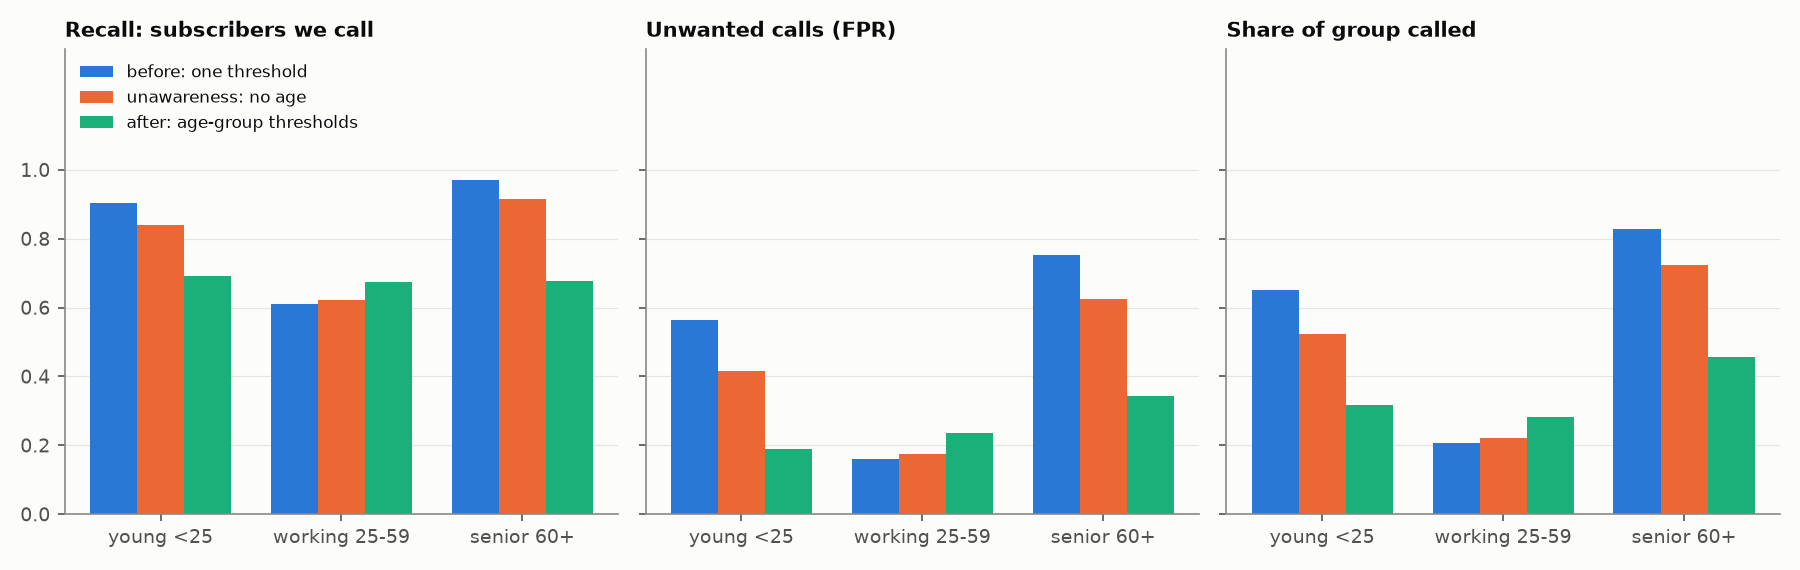
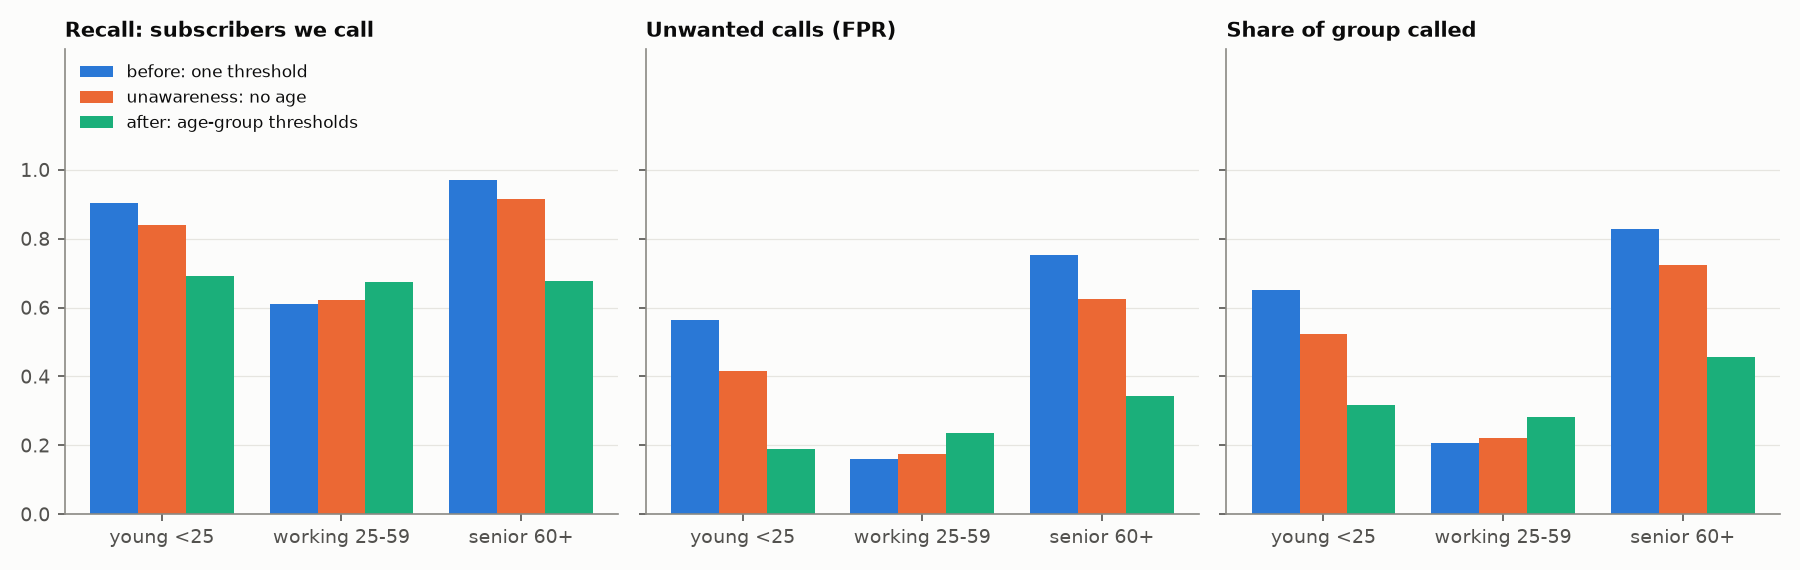
Fit final model and evaluate once on the untouched test set

diff --git a/src/final.py b/src/final.py
@@ -1,0 +1,120 @@
+"""Final step - fit the chosen model on all training data and score the untouched test set ONCE.
+
+Every decision is frozen before this script runs, all of it chosen on cross-validation:
+- model and hyperparameters: tuned LightGBM (step 6, reports/tables/best_params.json);
+- no recalibration (step 9: the raw probabilities are already honest);
+- decision threshold: the profit-optimal one from out-of-fold scores (step 6, 0.11);
+- fairness mitigation: one threshold per age group (step 10, reports/tables/fairness_thresholds.json).
+Nothing here is tuned on the test set; the test numbers only report how well those choices hold.
+
+Outputs: the fitted model for the API (artifacts/models/final_model.joblib, also logged to MLflow),
+test metrics, a test reliability diagram and the fairness comparison before/after mitigation.
+
+Run: python -m src.final
+"""
+import json
+
+import joblib
+import matplotlib.pyplot as plt
+import mlflow
+import numpy as np
+import pandas as pd
+from sklearn.calibration import calibration_curve
+from sklearn.metrics import brier_score_loss
+
+from src.config import path
+from src.data import load_split
+from src.evaluation import expected_calibration_error, profit, summarize
+from src.fairness import GROUPS, age_group, gaps, group_report, plot_groups
+from src.models import build_pipeline
+from src.plots import GREY, SERIES, save
+from src.tracking import parent_run
+
+
+def main() -> None:
+    X_train, X_test, y_train, y_test = load_split()
+    params = json.loads((path("tables") / "best_params.json").read_text())["lightgbm"]
+    tuned = pd.read_csv(path("tables") / "tuning_results.csv")
+    threshold = float(tuned.query("model == 'lightgbm' and setting == 'tuned'")["threshold"].iloc[0])
+    group_thresholds = json.loads((path("tables") / "fairness_thresholds.json").read_text())["thresholds"]
+
+    # Refit on the full 80% (S5: choose with CV, then refit on all development data).
+    model = build_pipeline("lightgbm", **params).fit(X_train, y_train)
+    bundle = {"model": model, "threshold": threshold, "group_thresholds": group_thresholds,
+              "columns": list(X_train.columns)}
+    model_file = path("models") / "final_model.joblib"
+    joblib.dump(bundle, model_file)
+
+    scores = model.predict_proba(X_test)[:, 1]
+    groups = age_group(X_test["age"])
+    cv = tuned.query("model == 'lightgbm' and setting == 'tuned'").iloc[0]
+
+    # Headline metrics: test next to the cross-validation estimate, plus the no-model baseline.
+    test = {**summarize(y_test, scores, threshold), "brier": brier_score_loss(y_test, scores),
+            "ECE": expected_calibration_error(y_test, scores)}
+    everyone = np.ones(len(y_test), dtype=bool)
+    metrics = pd.DataFrame({
+        "cross-validation (train)": {k: cv[k] for k in ["AP", "ROC_AUC", "threshold", "precision",
+                                                        "recall", "share_called", "profit_per_1000"]},
+        "test (final model)": test,
+        "test: call everyone": {"AP": y_test.mean(), "ROC_AUC": 0.5, "threshold": 0.0,
+                                "precision": y_test.mean(), "recall": 1.0, "share_called": 1.0,
+                                "profit_per_1000": profit(y_test, everyone) * 1000 / len(y_test)},
+    })
+
+    # Fairness on the test set: the same frozen model, one threshold vs age-group thresholds.
+    settings = {"before: one threshold": {g: threshold for g in GROUPS},
+                "after: age-group thresholds": group_thresholds}
+    reports, summary = [], []
+    for name, thresholds in settings.items():
+        report = group_report(y_test, scores, groups, thresholds).assign(setting=name)
+        call = scores >= np.array([thresholds[g] for g in groups])
+        summary.append({"setting": name, "profit_per_1000": profit(y_test, call) * 1000 / len(y_test),
+                        **gaps(report)})
+        reports.append(report)
+    fairness = pd.concat(reports, ignore_index=True)
+    fairness_summary = pd.DataFrame(summary)
+
+    metrics_file = path("tables") / "final_test_metrics.csv"
+    fairness_file = path("tables") / "final_test_fairness.csv"
+    fairness_summary_file = path("tables") / "final_test_fairness_summary.csv"
+    metrics.to_csv(metrics_file, index_label="metric")
+    fairness.to_csv(fairness_file, index=False)
+    fairness_summary.to_csv(fairness_summary_file, index=False)
+
+    fig, ax = plt.subplots(figsize=(5.5, 5))
+    ax.plot([0, 1], [0, 1], color=GREY, linestyle="--", linewidth=1, label="perfect calibration")
+    observed, predicted = calibration_curve(y_test, scores, n_bins=10, strategy="uniform")
+    ax.plot(predicted, observed, "o-", color=SERIES[0], linewidth=2, markersize=6,
+            label=f"final model (Brier {test['brier']:.3f}, ECE {test['ECE']:.3f})")
+    ax.set(xlabel="Predicted probability", ylabel="Observed subscription rate", xlim=(0, 1), ylim=(0, 1))
+    ax.set_title("Reliability on the untouched test set", loc="left")
+    ax.legend(loc="upper left")
+    save(fig, "final_test_reliability")
+    plot_groups(fairness, "final_test_fairness")
+
+    figures = [path("figures") / f"{f}.png" for f in ["final_test_reliability", "final_test_fairness"]]
+    with parent_run("final_test", [metrics_file, fairness_file, fairness_summary_file, *figures]):
+        mlflow.log_params({"model": "lightgbm", "threshold": threshold,
+                           **{f"param_{k}": v for k, v in params.items()}})
+        mlflow.log_metrics({f"test_{k}": float(v) for k, v in test.items()})
+        # MLflow saves models with skops, which only loads types we explicitly trust:
+        # LightGBM, the column selector and our own feature functions.
+        mlflow.sklearn.log_model(model, name="final_model", skops_trusted_types=[
+            "collections.OrderedDict", "numpy.dtype", "lightgbm.basic.Booster",
+            "lightgbm.sklearn.LGBMClassifier", "sklearn.compose._column_transformer.make_column_selector",
+            "src.features.add_features", "src.features.contacted_before",
+            "src.features.life_stage", "src.features.log_skewed"])
+
+    print(metrics.round(4).to_string())
+    print()
+    cols = ["setting", "group", "threshold", "clients", "subscribers", "call_rate", "recall",
+            "recall_ci_low", "recall_ci_high", "false_positive_rate", "precision", "ECE"]
+    print(fairness[cols].round(3).to_string(index=False))
+    print()
+    print(fairness_summary.round(3).to_string(index=False))
+    print(f"\nModel saved to {model_file}")
+
+
+if __name__ == "__main__":
+    main()

diff --git a/src/fairness.py b/src/fairness.py
@@ -35,6 +35,8 @@ from src.plots import SERIES, save
 from src.tracking import log_candidate, parent_run
 
 GROUPS = ["young <25", "working 25-59", "senior 60+"]
+# Same colour for the same setting in every figure (CV and test).
+SETTING_COLORS = {"before": SERIES[0], "unawareness": SERIES[1], "after": SERIES[2]}
 
 
 def age_group(age: pd.Series) -> np.ndarray:
@@ -88,6 +90,29 @@ def equal_opportunity_thresholds(y: pd.Series, scores: np.ndarray, groups: np.nd
     return chosen
 
 
+def plot_groups(table: pd.DataFrame, name: str) -> None:
+    """Recall, unwanted calls and call rate per age group, one bar colour per setting."""
+    settings = list(table["setting"].unique())
+    width = 0.8 / len(settings)
+    fig, axes = plt.subplots(1, 3, figsize=(12, 3.8), sharey=True)
+    metrics = [("recall", "Recall: subscribers we call"),
+               ("false_positive_rate", "Unwanted calls (FPR)"), ("call_rate", "Share of group called")]
+    for ax, (col, title) in zip(axes, metrics):
+        for k, setting in enumerate(settings):
+            values = table.loc[table["setting"] == setting, col]
+            offset = (k - (len(settings) - 1) / 2) * width
+            ax.bar(np.arange(len(GROUPS)) + offset, values, width,
+                   color=SETTING_COLORS[setting.split(":")[0]], label=setting)
+        ax.set_xticks(range(len(GROUPS)), GROUPS)
+        ax.set_title(title, loc="left")
+        ax.grid(axis="x", visible=False)
+    # Headroom above 1.0 keeps the legend clear of the bars.
+    axes[0].set_ylim(0, 1.35)
+    axes[0].set_yticks(np.linspace(0, 1, 6))
+    axes[0].legend(loc="upper left", fontsize=8)
+    save(fig, name)
+
+
 def main() -> None:
     X, _, y, _ = load_split()
     params = json.loads((path("tables") / "best_params.json").read_text())["lightgbm"]
@@ -133,22 +158,7 @@ def main() -> None:
         pd.DataFrame(summary).to_csv(summary_file, index=False)
         thresholds_file.write_text(json.dumps({"target_recall": target, "thresholds": per_group}, indent=2))
 
-        fig, axes = plt.subplots(1, 3, figsize=(12, 3.8), sharey=True)
-        metrics = [("recall", "Recall: subscribers we call"),
-                   ("false_positive_rate", "Unwanted calls (FPR)"), ("call_rate", "Share of group called")]
-        width = 0.26
-        for ax, (col, title) in zip(axes, metrics):
-            for k, (color, name) in enumerate(zip(SERIES, settings)):
-                values = table.loc[table["setting"] == name, col]
-                ax.bar(np.arange(len(GROUPS)) + (k - 1) * width, values, width, color=color, label=name)
-            ax.set_xticks(range(len(GROUPS)), GROUPS)
-            ax.set_title(title, loc="left")
-            ax.grid(axis="x", visible=False)
-        # Headroom above 1.0 keeps the legend clear of the bars.
-        axes[0].set_ylim(0, 1.35)
-        axes[0].set_yticks(np.linspace(0, 1, 6))
-        axes[0].legend(loc="upper left", fontsize=8)
-        save(fig, "fairness_cv")
+        plot_groups(table, "fairness_cv")
 
     print(f"target recall (overall, one threshold {t}): {target:.3f}  |  age-group thresholds: {per_group}\n")
     cols = ["setting", "group", "threshold", "clients", "subscribers", "subscription_rate", "call_rate",

diff --git a/README.md b/README.md
@@ -31,7 +31,7 @@ The dataset downloads automatically on the first run. No API keys needed.
 ## Pipeline
 
 Run each step from the project root, with the virtual environment active, in this order
-(steps 8-10 read the settings chosen in step 6).
+(steps 8-11 read the settings chosen in steps 6 and 10).
 
 | # | Step | Command | Status |
 |---|------|---------|--------|
@@ -45,6 +45,7 @@ Run each step from the project root, with the virtual environment active, in thi
 | 8 | Explainability: gain, permutation, SHAP (global + 4 clients) | `python -m src.explain` | done |
 | 9 | Calibration: reliability diagram, Brier, ECE; raw vs Platt vs isotonic | `python -m src.calibration` | done |
 | 10 | Fairness audit on age groups + mitigation (designed on CV; test comparison in the final step) | `python -m src.fairness` | done |
+| 11 | Final model + one-time test evaluation (all decisions frozen) | `python -m src.final` | done |
 | | Prediction API (FastAPI) | | planned |
 
 ### Experiment tracking
@@ -76,15 +77,35 @@ src/
   explain.py      step 8: global importance (3 views) + local SHAP explanations
   calibration.py  step 9: are the probabilities honest? (reliability, Brier, ECE)
   fairness.py     step 10: age-group audit (equal opportunity) + age-group thresholds
+  final.py        step 11: refit on all training data, score the test set once, save the model
   evaluation.py   shared metrics: out-of-fold scores, AP, precision, recall, profit, ECE
   plots.py        shared figure style
 reports/
   figures/        plots used in the report
   tables/         CSV results used in the report
-artifacts/        fitted models (git-ignored)
+artifacts/        final_model.joblib, used by the API (git-ignored, rebuilt by step 11)
 mlflow.db, mlruns/ MLflow runs and their artifacts (git-ignored, rebuilt by re-running the steps)
 data/             dataset cache (git-ignored)
 ```
+
+## Results on the untouched test set
+
+Tuned LightGBM, threshold 0.11 chosen on cross-validation, scored once on the 20% test set
+(9,043 clients).
+
+| | Test | Cross-validation | Call everyone |
+|---|---|---|---|
+| Average precision | 0.476 | 0.459 | 0.117 |
+| ROC-AUC | 0.809 | 0.802 | 0.5 |
+| Clients called | 24% | 24% | 100% |
+| Subscribers reached (recall) | 67% | 66% | 100% |
+| Calls that convert (precision) | 33% | 32% | 12% |
+| Profit per 1,000 clients | EUR 2,711 | EUR 2,676 | EUR 850 |
+| Calibration (Brier / ECE) | 0.080 / 0.010 | 0.081 / 0.006 | |
+
+Fairness (equal opportunity across age groups, test set): the recall gap between age groups
+drops from 35 to 5 points with age-group thresholds, at a cost of 6% of profit
+(EUR 2,711 to EUR 2,551 per 1,000 clients). Details in `reports/tables/final_test_*.csv`.
 
 ## Guarantees against leakage
 
